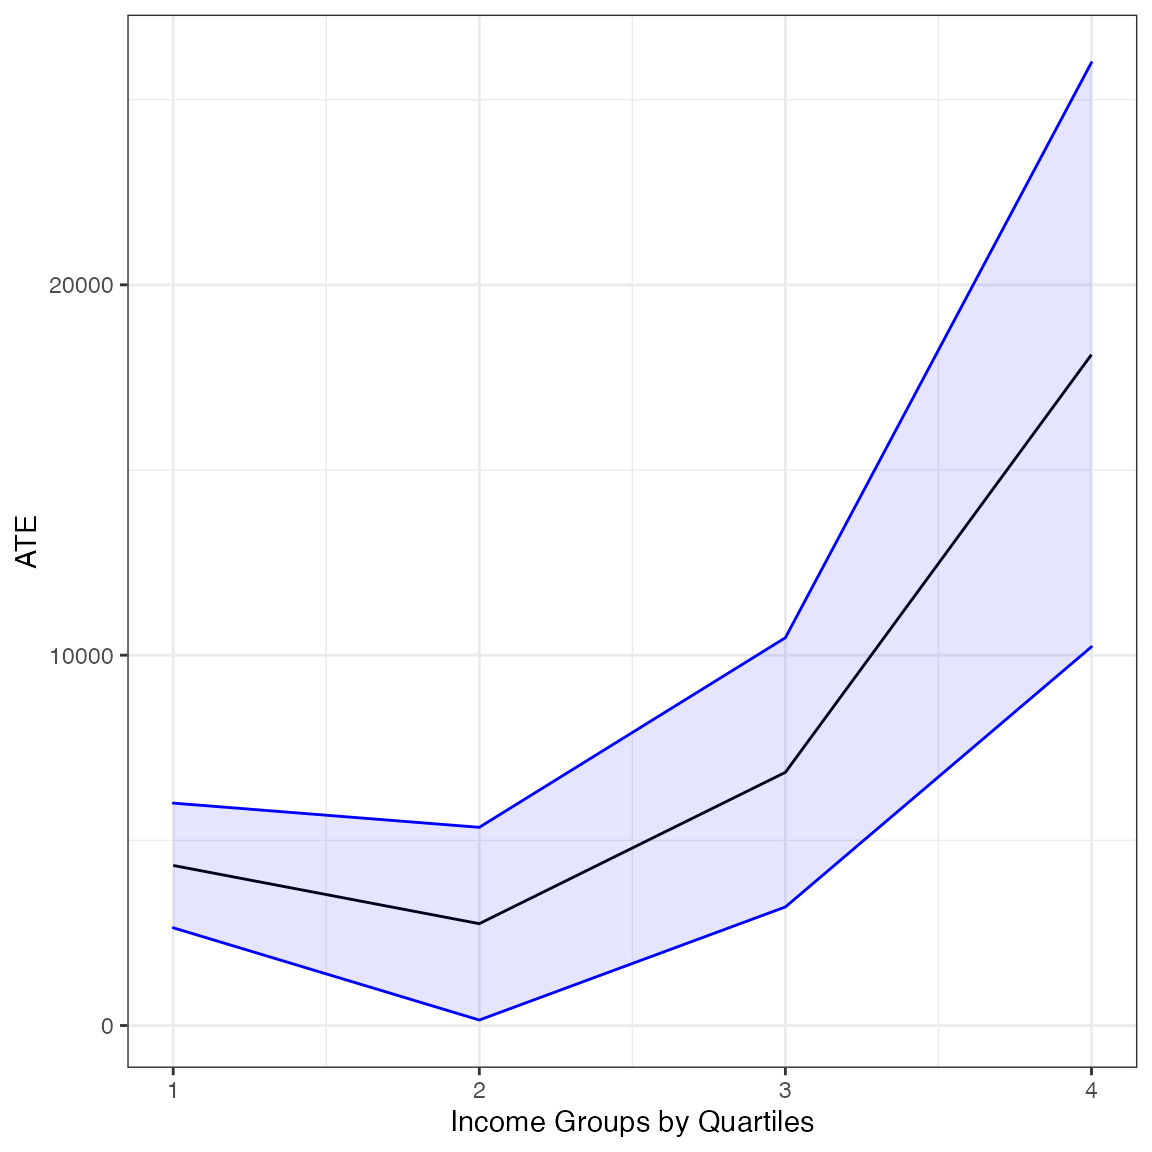
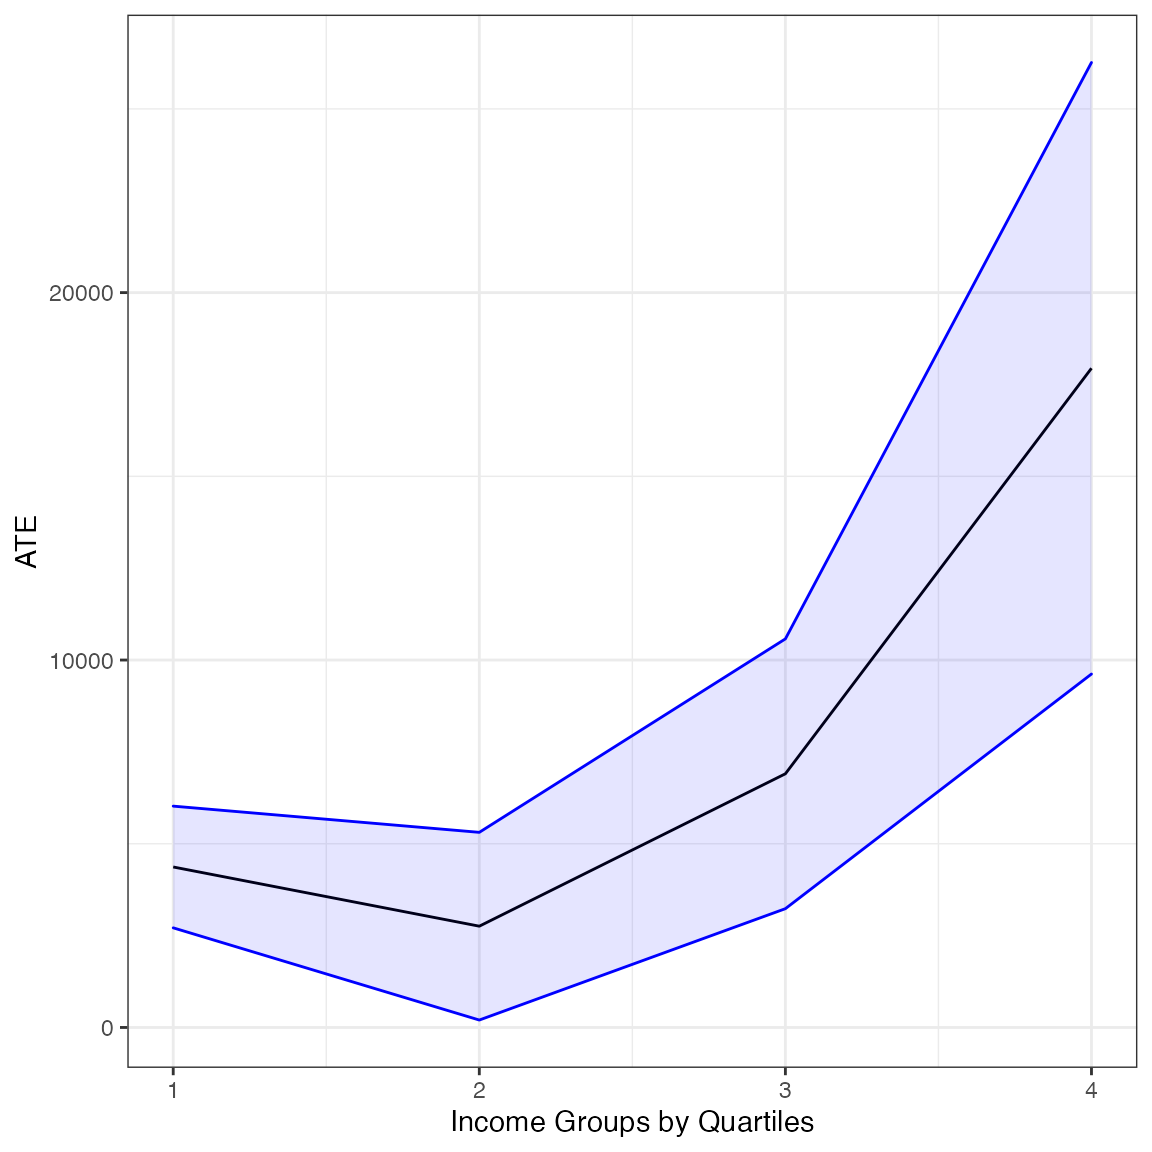
- 401k

diff --git a/docs/articles/dml-401k.html b/docs/articles/dml-401k.html
@@ -121,13 +121,13 @@
 <span><span class="co">#&gt; </span></span>
 <span><span class="co">#&gt;  Model: Partially Linear </span></span>
 <span><span class="co">#&gt;  Cross-Fitting: 5 folds, 5 reps </span></span>
-<span><span class="co">#&gt;  ML Method: outcome (ranger, R2 = 27.006%), treatment (ranger, R2 = 11.493%)</span></span>
+<span><span class="co">#&gt;  ML Method: outcome (ranger, R2 = 26.858%), treatment (ranger, R2 = 11.435%)</span></span>
 <span><span class="co">#&gt;  Tuning: clean </span></span>
 <span><span class="co">#&gt; </span></span>
 <span><span class="co">#&gt; Average Treatment Effect: </span></span>
 <span><span class="co">#&gt; </span></span>
 <span><span class="co">#&gt;     Estimate Std. Error t value   P(&gt;|t|)    </span></span>
-<span><span class="co">#&gt; ate   8822.1     1385.5  6.3672 1.925e-10 ***</span></span>
+<span><span class="co">#&gt; ate   8950.0     1375.3  6.5078 7.627e-11 ***</span></span>
 <span><span class="co">#&gt; ---</span></span>
 <span><span class="co">#&gt; Signif. codes:  0 '***' 0.001 '**' 0.01 '*' 0.05 '.' 0.1 ' ' 1</span></span>
 <span><span class="co">#&gt; Note: DML estimates combined using the median method.</span></span></code></pre></div>
@@ -135,27 +135,25 @@
 <code class="sourceCode R"><span><span class="co"># robustness values</span></span>
 <span><span class="fu"><a href="../reference/robustness_value.html">robustness_value</a></span><span class="op">(</span><span class="va">dml.401k.plm</span>, alpha <span class="op">=</span> <span class="fl">1</span><span class="op">)</span> <span class="co"># RV point estimate</span></span>
 <span><span class="co">#&gt;        ate </span></span>
-<span><span class="co">#&gt; 0.07156923</span></span>
+<span><span class="co">#&gt; 0.07230411</span></span>
 <span><span class="fu"><a href="../reference/robustness_value.html">robustness_value</a></span><span class="op">(</span><span class="va">dml.401k.plm</span>, alpha <span class="op">=</span> <span class="fl">0.05</span><span class="op">)</span> <span class="co"># RV confidence bound</span></span>
 <span><span class="co">#&gt;        ate </span></span>
-<span><span class="co">#&gt; 0.05270498</span></span></code></pre></div>
+<span><span class="co">#&gt; 0.05337206</span></span></code></pre></div>
 <div class="sourceCode" id="cb6"><pre class="downlit sourceCode r">
 <code class="sourceCode R"><span><span class="co"># confidence bounds under posited scenario</span></span>
 <span><span class="fu"><a href="../reference/confidence_bounds.html">confidence_bounds</a></span><span class="op">(</span><span class="va">dml.401k.plm</span>, r2ya.dx <span class="op">=</span> <span class="fl">0.04</span>, r2.rr <span class="op">=</span> <span class="fl">0.03</span>, level <span class="op">=</span> <span class="fl">0.95</span><span class="op">)</span></span>
 <span><span class="co">#&gt;           lwr       upr</span></span>
-<span><span class="co">#&gt; ate  2317.562 15407.036</span></span>
+<span><span class="co">#&gt; ate  2431.305 15471.045</span></span>
 <span><span class="co">#&gt; </span></span>
 <span><span class="co">#&gt; Confidence level: point = 95%; region = 90%.</span></span>
 <span><span class="co">#&gt; Sensitivity parameters: r2ya.dx = 0.04; r2.rr = 0.03; rho2 = 1.</span></span></code></pre></div>
 <div class="sourceCode" id="cb7"><pre class="downlit sourceCode r">
 <code class="sourceCode R"><span><span class="co"># sensitivity contour plots</span></span>
 <span><span class="fu"><a href="https://rdrr.io/r/graphics/par.html" class="external-link">par</a></span><span class="op">(</span>mfrow <span class="op">=</span> <span class="fu"><a href="https://rdrr.io/r/base/c.html" class="external-link">c</a></span><span class="op">(</span><span class="fl">1</span>,<span class="fl">2</span><span class="op">)</span><span class="op">)</span></span>
-<span><span class="fu"><a href="../reference/ovb_contour_plot.html">ovb_contour_plot</a></span><span class="op">(</span><span class="va">dml.401k.plm</span>, which.bound <span class="op">=</span> <span class="st">"lwr"</span>, </span>
-<span>                 r2ya.dx <span class="op">=</span> <span class="fl">0.04</span>, r2.rr <span class="op">=</span> <span class="fl">0.03</span>, </span>
-<span>                 bound.label <span class="op">=</span> <span class="st">"Max match (3 years)"</span><span class="op">)</span></span>
-<span><span class="fu"><a href="../reference/ovb_contour_plot.html">ovb_contour_plot</a></span><span class="op">(</span><span class="va">dml.401k.plm</span>, which.bound <span class="op">=</span> <span class="st">"upr"</span>, </span>
-<span>                 r2ya.dx <span class="op">=</span> <span class="fl">0.04</span>, r2.rr <span class="op">=</span> <span class="fl">0.03</span>, </span>
-<span>                 bound.label <span class="op">=</span> <span class="st">"Max match (3 years)"</span><span class="op">)</span></span></code></pre></div>
+<span><span class="fu"><a href="../reference/ovb_contour_plot.html">ovb_contour_plot</a></span><span class="op">(</span><span class="va">dml.401k.plm</span>, which.bound <span class="op">=</span> <span class="st">"lwr"</span>, r2ya.dx <span class="op">=</span> <span class="fl">0.04</span>, r2.rr <span class="op">=</span> <span class="fl">0.03</span>, </span>
+<span>                 bound.label <span class="op">=</span> <span class="st">"Max match (3 years)"</span>, col.contour <span class="op">=</span> <span class="st">"blue"</span><span class="op">)</span></span>
+<span><span class="fu"><a href="../reference/ovb_contour_plot.html">ovb_contour_plot</a></span><span class="op">(</span><span class="va">dml.401k.plm</span>, which.bound <span class="op">=</span> <span class="st">"upr"</span>, r2ya.dx <span class="op">=</span> <span class="fl">0.04</span>, r2.rr <span class="op">=</span> <span class="fl">0.03</span>, </span>
+<span>                 bound.label <span class="op">=</span> <span class="st">"Max match (3 years)"</span>, col.contour <span class="op">=</span> <span class="st">"blue"</span><span class="op">)</span></span></code></pre></div>
 <p><img src="dml-401k_files/figure-html/unnamed-chunk-7-1.png" width="1152"></p>
 </div>
 <div class="section level2">
@@ -191,23 +189,23 @@
 <span><span class="co">#&gt; </span></span>
 <span><span class="co">#&gt;  Model: Nonparametric </span></span>
 <span><span class="co">#&gt;  Cross-Fitting: 5 folds, 5 reps </span></span>
-<span><span class="co">#&gt;  ML Method: outcome (ranger, R2 = 26.721%), treatment (ranger, R2 = 11.517%)</span></span>
+<span><span class="co">#&gt;  ML Method: outcome (ranger, R2 = 26.127%), treatment (ranger, R2 = 11.621%)</span></span>
 <span><span class="co">#&gt;  Tuning: clean </span></span>
 <span><span class="co">#&gt; </span></span>
 <span><span class="co">#&gt; Average Treatment Effect: </span></span>
 <span><span class="co">#&gt; </span></span>
 <span><span class="co">#&gt;     Estimate Std. Error t value   P(&gt;|t|)    </span></span>
-<span><span class="co">#&gt; ate   7989.1     1180.6   6.767 1.315e-11 ***</span></span>
+<span><span class="co">#&gt; ate   8019.2     1233.7  6.5003 8.017e-11 ***</span></span>
 <span><span class="co">#&gt; ---</span></span>
 <span><span class="co">#&gt; Signif. codes:  0 '***' 0.001 '**' 0.01 '*' 0.05 '.' 0.1 ' ' 1</span></span>
 <span><span class="co">#&gt; </span></span>
 <span><span class="co">#&gt; Group Average Treatment Effect: </span></span>
 <span><span class="co">#&gt; </span></span>
 <span><span class="co">#&gt;         Estimate Std. Error t value   P(&gt;|t|)    </span></span>
-<span><span class="co">#&gt; gate.q1  4322.03     858.85  5.0323 4.845e-07 ***</span></span>
-<span><span class="co">#&gt; gate.q2  2749.67    1327.52  2.0713 0.0383332 *  </span></span>
-<span><span class="co">#&gt; gate.q3  6836.31    1854.94  3.6855 0.0002283 ***</span></span>
-<span><span class="co">#&gt; gate.q4 18115.48    4025.09  4.5006 6.775e-06 ***</span></span>
+<span><span class="co">#&gt; gate.q1   4367.7      845.0  5.1688 2.355e-07 ***</span></span>
+<span><span class="co">#&gt; gate.q2   2756.3     1303.2  2.1151  0.034418 *  </span></span>
+<span><span class="co">#&gt; gate.q3   6904.5     1873.2  3.6858  0.000228 ***</span></span>
+<span><span class="co">#&gt; gate.q4  17941.2     4245.9  4.2255 2.384e-05 ***</span></span>
 <span><span class="co">#&gt; ---</span></span>
 <span><span class="co">#&gt; Signif. codes:  0 '***' 0.001 '**' 0.01 '*' 0.05 '.' 0.1 ' ' 1</span></span>
 <span><span class="co">#&gt; </span></span>
@@ -228,10 +226,10 @@
 <code class="sourceCode R"><span><span class="co"># robustness values</span></span>
 <span><span class="fu"><a href="../reference/robustness_value.html">robustness_value</a></span><span class="op">(</span><span class="va">dml.401k.npm</span>, alpha <span class="op">=</span> <span class="fl">1</span><span class="op">)</span> <span class="co"># RV point estimate</span></span>
 <span><span class="co">#&gt;        ate    gate.q1    gate.q2    gate.q3    gate.q4 </span></span>
-<span><span class="co">#&gt; 0.06060851 0.09940249 0.04508581 0.06794165 0.09167264</span></span>
+<span><span class="co">#&gt; 0.06055296 0.09989675 0.04538991 0.06890869 0.08943171</span></span>
 <span><span class="fu"><a href="../reference/robustness_value.html">robustness_value</a></span><span class="op">(</span><span class="va">dml.401k.npm</span>, alpha <span class="op">=</span> <span class="fl">0.05</span><span class="op">)</span> <span class="co"># RV confidence bound</span></span>
-<span><span class="co">#&gt;         ate     gate.q1     gate.q2     gate.q3     gate.q4 </span></span>
-<span><span class="co">#&gt; 0.045462937 0.067436920 0.008050924 0.035499473 0.059100541</span></span></code></pre></div>
+<span><span class="co">#&gt;        ate    gate.q1    gate.q2    gate.q3    gate.q4 </span></span>
+<span><span class="co">#&gt; 0.04498911 0.07003503 0.00873519 0.03618454 0.05587322</span></span></code></pre></div>
 <div class="sourceCode" id="cb12"><pre class="downlit sourceCode r">
 <code class="sourceCode R"><span><span class="co"># bounds and confidence bounds </span></span>
 <span><span class="va">bds</span>   <span class="op">&lt;-</span> <span class="fu"><a href="../reference/confidence_bounds.html">confidence_bounds</a></span><span class="op">(</span><span class="va">dml.401k.npm</span>, r2ya.dx <span class="op">=</span> <span class="fl">0.04</span>, r2.rr <span class="op">=</span> <span class="fl">0.03</span>, level <span class="op">=</span> <span class="fl">0</span><span class="op">)</span></span>
@@ -239,12 +237,12 @@
 <span><span class="va">cbds</span>  <span class="op">&lt;-</span> <span class="fu"><a href="../reference/confidence_bounds.html">confidence_bounds</a></span><span class="op">(</span><span class="va">dml.401k.npm</span>, r2ya.dx <span class="op">=</span> <span class="fl">0.04</span>, r2.rr <span class="op">=</span> <span class="fl">0.03</span>, level <span class="op">=</span> <span class="fl">.95</span><span class="op">)</span></span>
 <span><span class="va">cbds</span>  <span class="op">&lt;-</span> <span class="fu"><a href="https://rdrr.io/r/stats/setNames.html" class="external-link">setNames</a></span><span class="op">(</span><span class="fu"><a href="https://rdrr.io/r/base/as.data.frame.html" class="external-link">as.data.frame</a></span><span class="op">(</span><span class="va">cbds</span><span class="op">)</span>, <span class="fu"><a href="https://rdrr.io/r/base/c.html" class="external-link">c</a></span><span class="op">(</span><span class="st">"lwr.cbound"</span>, <span class="st">"upr.cbound"</span><span class="op">)</span><span class="op">)</span></span>
 <span><span class="fu"><a href="https://rdrr.io/r/base/cbind.html" class="external-link">cbind</a></span><span class="op">(</span><span class="va">bds</span>, <span class="va">cbds</span><span class="op">)</span></span>
-<span><span class="co">#&gt;          lwr.bound upr.bound lwr.cbound upr.cbound</span></span>
-<span><span class="co">#&gt; ate      3495.5393 12482.740  1499.9796  14522.208</span></span>
-<span><span class="co">#&gt; gate.q1  2870.7174  5773.339  1458.8422   7216.911</span></span>
-<span><span class="co">#&gt; gate.q2   653.4936  4845.841 -1955.3800   6790.305</span></span>
-<span><span class="co">#&gt; gate.q3  3419.5708 10253.053   105.6763  13337.489</span></span>
-<span><span class="co">#&gt; gate.q4 11491.2385 24739.718  4907.9396  31528.692</span></span></code></pre></div>
+<span><span class="co">#&gt;         lwr.bound upr.bound lwr.cbound upr.cbound</span></span>
+<span><span class="co">#&gt; ate      3504.435 12534.035   1431.931  14670.749</span></span>
+<span><span class="co">#&gt; gate.q1  2939.741  5793.193   1579.456   7247.700</span></span>
+<span><span class="co">#&gt; gate.q2   669.492  4843.202  -1900.394   6746.413</span></span>
+<span><span class="co">#&gt; gate.q3  3503.851 10277.391    180.541  13386.734</span></span>
+<span><span class="co">#&gt; gate.q4 11203.767 24678.634   4298.387  31873.003</span></span></code></pre></div>
 <div class="sourceCode" id="cb13"><pre class="downlit sourceCode r">
 <code class="sourceCode R"><span><span class="co"># confidence bounds plot</span></span>
 <span><span class="va">df2</span>   <span class="op">&lt;-</span> <span class="fu"><a href="https://rdrr.io/r/base/cbind.html" class="external-link">cbind</a></span><span class="op">(</span><span class="va">df</span>, <span class="va">bds</span><span class="op">[</span><span class="op">-</span><span class="fl">1</span>,<span class="op">]</span>, <span class="va">cbds</span><span class="op">[</span><span class="op">-</span><span class="fl">1</span>, <span class="op">]</span><span class="op">)</span></span>
@@ -258,12 +256,10 @@
 <div class="sourceCode" id="cb14"><pre class="downlit sourceCode r">
 <code class="sourceCode R"><span><span class="co"># sensitivity contour plots</span></span>
 <span><span class="fu"><a href="https://rdrr.io/r/graphics/par.html" class="external-link">par</a></span><span class="op">(</span>mfrow <span class="op">=</span> <span class="fu"><a href="https://rdrr.io/r/base/c.html" class="external-link">c</a></span><span class="op">(</span><span class="fl">1</span>,<span class="fl">2</span><span class="op">)</span><span class="op">)</span></span>
-<span><span class="fu"><a href="../reference/ovb_contour_plot.html">ovb_contour_plot</a></span><span class="op">(</span><span class="va">dml.401k.npm</span>, which.bound <span class="op">=</span> <span class="st">"lwr"</span>, </span>
-<span>                 r2ya.dx <span class="op">=</span> <span class="fl">0.04</span>, r2.rr <span class="op">=</span> <span class="fl">0.03</span>, </span>
-<span>                 bound.label <span class="op">=</span> <span class="st">"Max match (3 years)"</span><span class="op">)</span></span>
-<span><span class="fu"><a href="../reference/ovb_contour_plot.html">ovb_contour_plot</a></span><span class="op">(</span><span class="va">dml.401k.npm</span>, which.bound <span class="op">=</span> <span class="st">"upr"</span>, </span>
-<span>                 r2ya.dx <span class="op">=</span> <span class="fl">0.04</span>, r2.rr <span class="op">=</span> <span class="fl">0.03</span>, </span>
-<span>                 bound.label <span class="op">=</span> <span class="st">"Max match (3 years)"</span><span class="op">)</span></span></code></pre></div>
+<span><span class="fu"><a href="../reference/ovb_contour_plot.html">ovb_contour_plot</a></span><span class="op">(</span><span class="va">dml.401k.npm</span>, which.bound <span class="op">=</span> <span class="st">"lwr"</span>, r2ya.dx <span class="op">=</span> <span class="fl">0.04</span>, r2.rr <span class="op">=</span> <span class="fl">0.03</span>, </span>
+<span>                 bound.label <span class="op">=</span> <span class="st">"Max match (3 years)"</span>, col.contour <span class="op">=</span> <span class="st">"blue"</span><span class="op">)</span></span>
+<span><span class="fu"><a href="../reference/ovb_contour_plot.html">ovb_contour_plot</a></span><span class="op">(</span><span class="va">dml.401k.npm</span>, which.bound <span class="op">=</span> <span class="st">"upr"</span>, r2ya.dx <span class="op">=</span> <span class="fl">0.04</span>, r2.rr <span class="op">=</span> <span class="fl">0.03</span>, </span>
+<span>                 bound.label <span class="op">=</span> <span class="st">"Max match (3 years)"</span>, col.contour <span class="op">=</span> <span class="st">"blue"</span><span class="op">)</span></span></code></pre></div>
 <p><img src="dml-401k_files/figure-html/unnamed-chunk-14-1.png" width="1152"></p>
 </div>
   </div>
